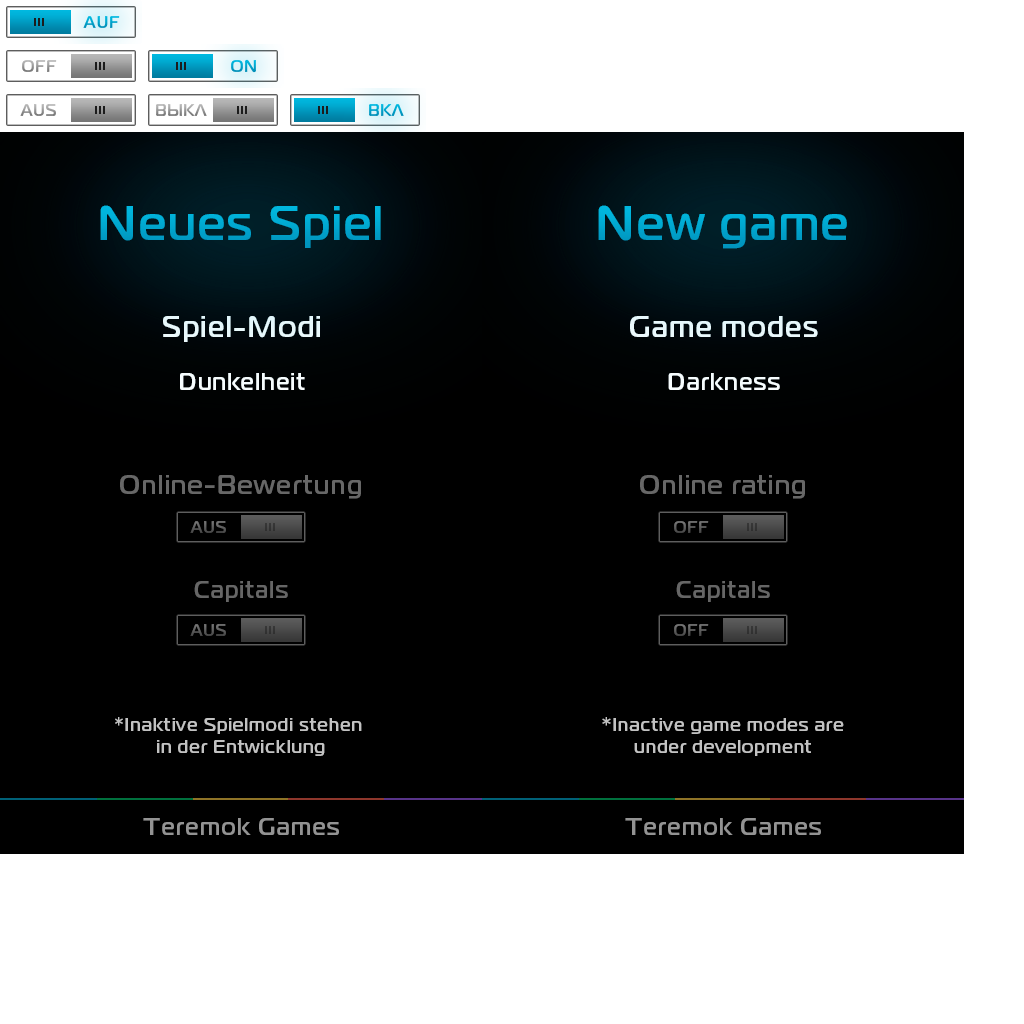
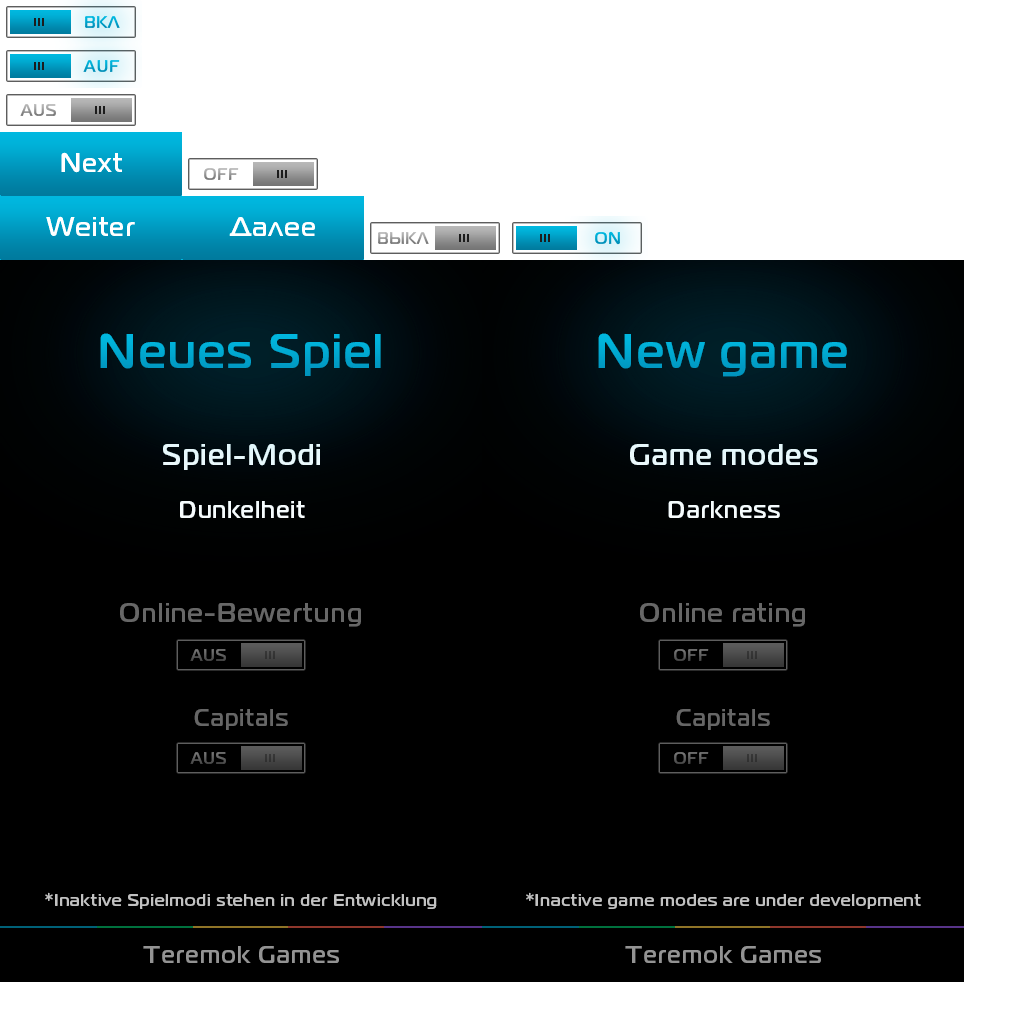
Заменена текстура кнопки далее

diff --git a/influence/src/com/teremok/influence/screen/ScreenController.java b/influence/src/com/teremok/influence/screen/ScreenController.java
@@ -213,6 +213,8 @@ public class ScreenController {
             mapSizeScreen.loaded = loaded;
         if (playersScreen!=null)
             playersScreen.loaded = loaded;
+        if (modeScreen!=null)
+            modeScreen.loaded = loaded;
     }
 
 }
